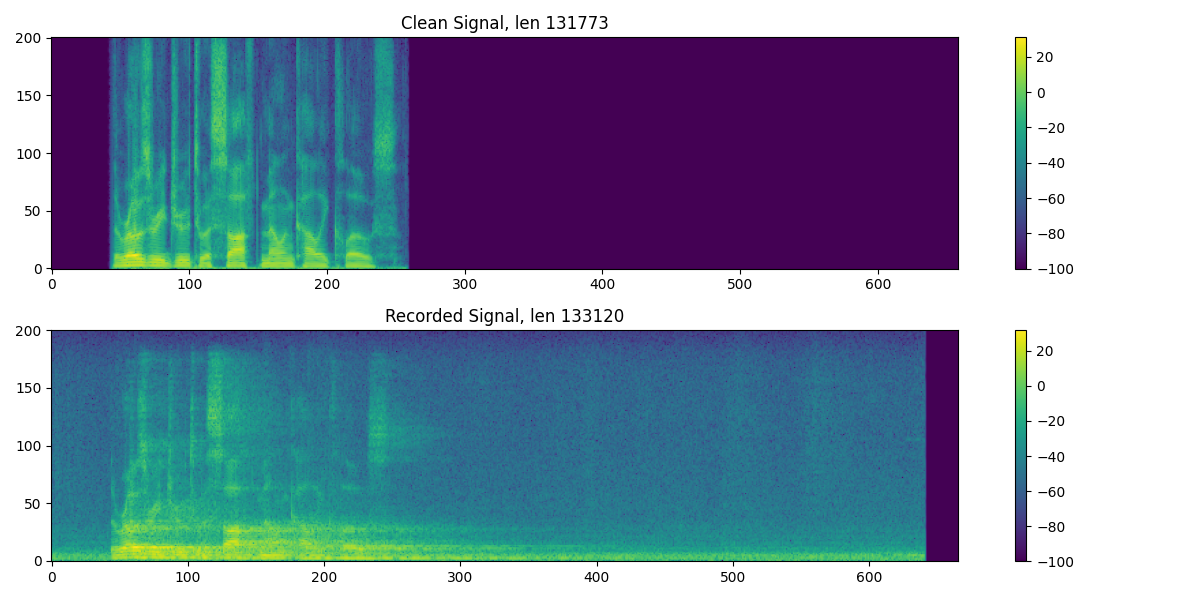
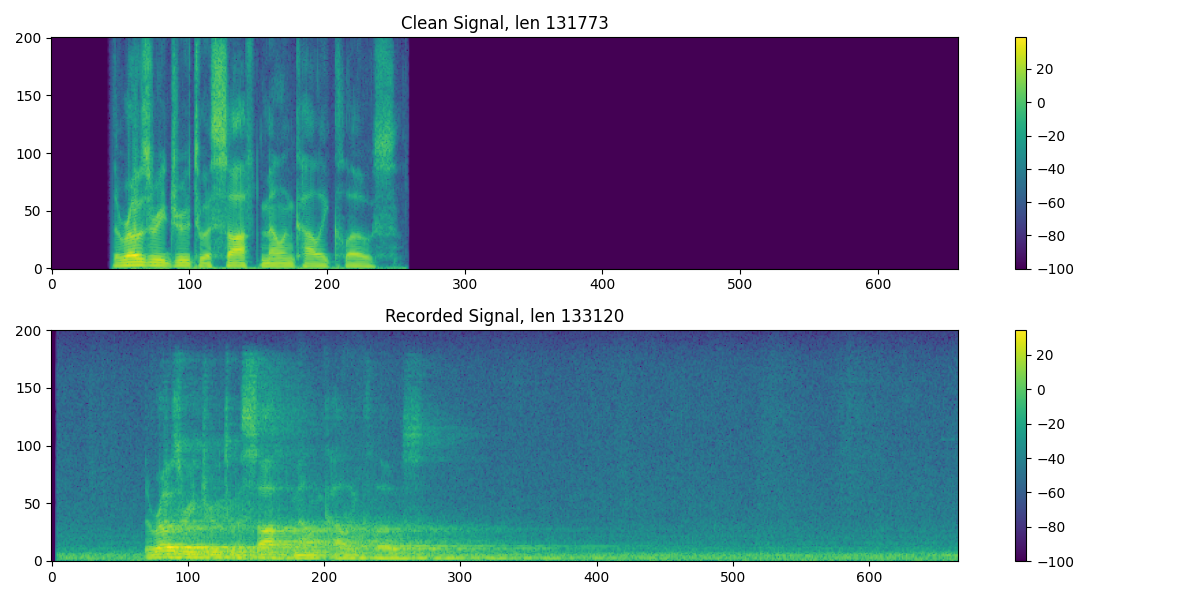
Result notes

diff --git a/research/results/results.md b/research/results/results.md
@@ -57,3 +57,13 @@ DCCRN finetuned for 30 epochs on task_2_level_1 with aligned data using a spectr
 task_2_level_1: 0.207
 task_2_level_2: 0.557
 task_2_level_3: 0.657
+
+To test:
+USing spectral subtraction before or after model
+Change window size in loss function
+align signals better
+Normalize signals
+
+DCCRN on all task1 level 1-5 evaluated on T1L4 with 0.41, on T1L5 with IR 0.536.
+
+With extra data training just on each level gives 0.43 for T1L4 with IR and 0.57 for T1L5 with IR.
